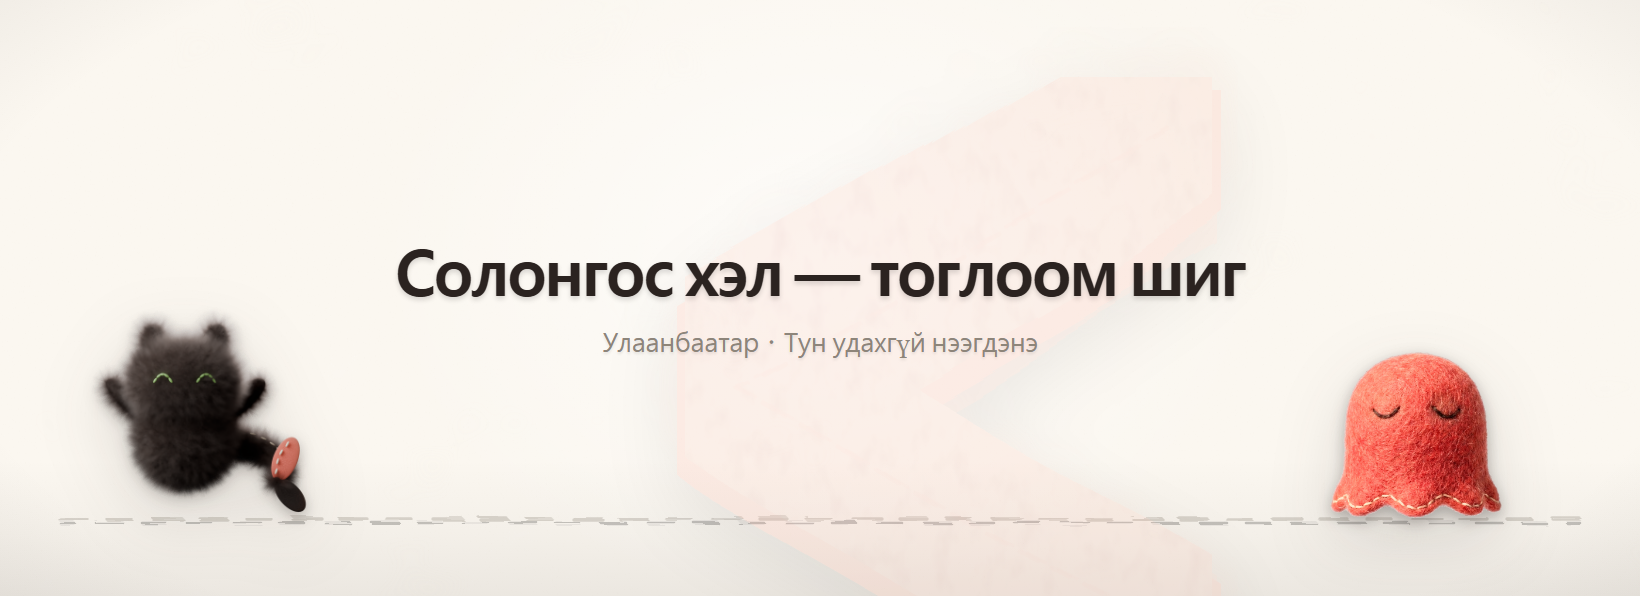
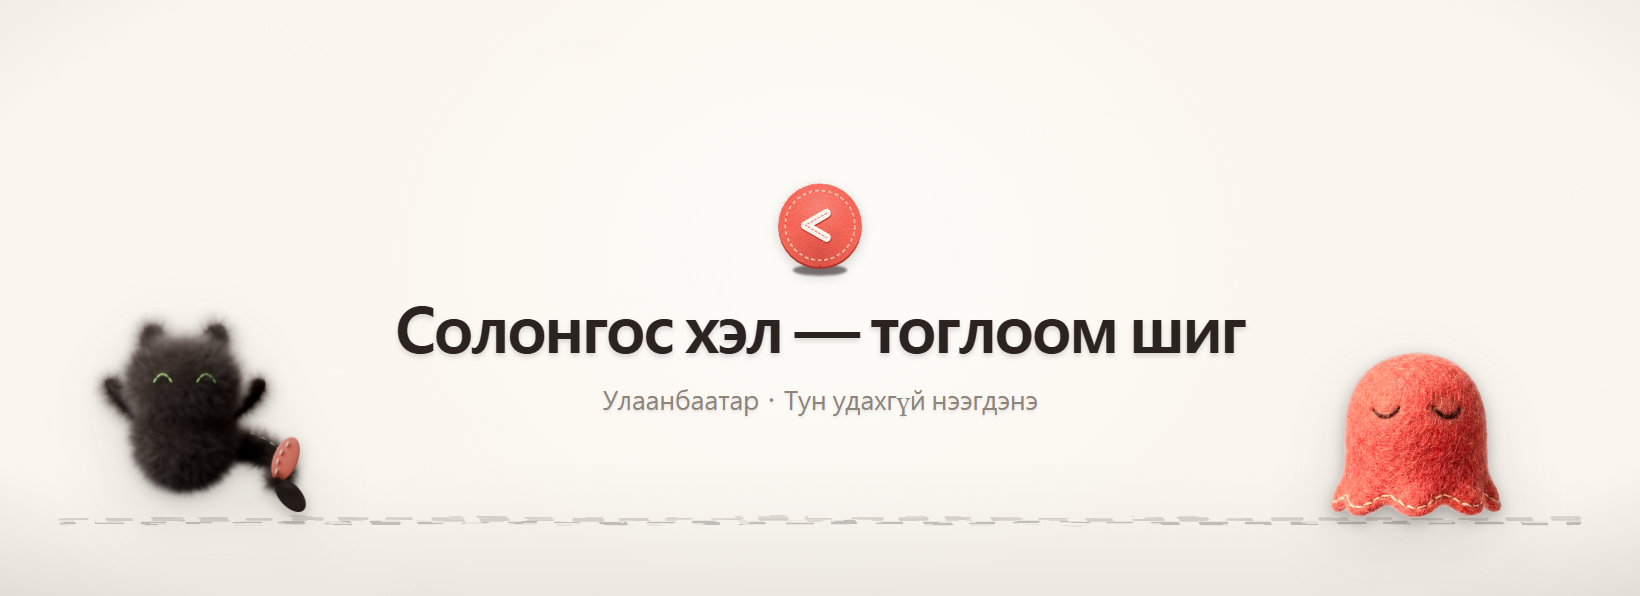
커버에 도장을 세우고 큰 꺾쇠를 걷었다 — 균형은 «더하기»가 아니라 «덜기»였다 (09-02)
유호 「< 균형이 안 맞는것같은데? 가운데 윗부분이나 아래쪽에 syn< 스티치한
버전 넣으면 좋을것같은데」.

① 도장을 문안 위 중앙에 세웠다 — 로고정본의 셋째 부품(펠트 원 + 쿠션 볼록
   + 실땀 링 + 접지). 기호 «<» 는 브랜드킷 §3 에서 「이미 안에 들어온 자리」의
   신호이고 도장이 그 대표 자리다. 워드마크 synk 를 안 쓴 까닭은 페이스북이
   커버 아래에 페이지 이름을 이미 크게 띄우기 때문이다 — 이름은 한 번이면 된다.

② 🔑 큰 꺾쇠 워터마크를 껐다. 1.7배를 옆으로 밀어도, 2.3배로 키워 중앙에 둬도
   균형이 안 잡혔다 — 커버는 배너보다 «낮고 넓어» 큰 꺾쇠가 천의 무늬가 되기
   전에 화면을 먹는 덩어리가 된다. 브랜드 신호는 도장 안의 꺾쇠가 이미 진다.
   같은 기호를 두 번 말할 까닭이 없다. 천이 비니 도장·문안·가이드 셋이 선명해졌다.

Session-Id: local_952145a8-6e62-4dbc-a954-4a346559cbce

Changed region(s): [[0.2177, 0.302, 0.7774, 0.604], [0.3732, 0.6644, 0.653, 0.6946]]

diff --git a/tools/배너굽기.js b/tools/배너굽기.js
@@ -27,7 +27,7 @@
 const fs = require('fs');
 const path = require('path');
 const { spawnSync } = require('child_process');
-const { 색, 기호선, 워드마크 } = require('./lib/로고정본.js');
+const { 색, 기호선, 워드마크, 도장 } = require('./lib/로고정본.js');
 const 마스코트자산 = require('./lib/마스코트자산.js');
 
 const ROOT = path.resolve(__dirname, '..');
@@ -350,7 +350,12 @@ const 안들 = {
     로고: () => 워드마크({ 판: '라이트', 표현: '펠트', 색갈래: '코랄' }),
     로고없이: true,
     천: { 보풀: '#FFFFFF', 그늘: 색['Oat'], 어둡나: false },
-    워터마크: true,
+    /* 🔴 큰 꺾쇠 워터마크를 **껐다**(09-02 · 유호 「< 균형이 안 맞는것같은데?」).
+     *   1.7배를 옆으로 밀어도, 2.3배로 키워 중앙에 둬도 균형이 안 잡혔다 — 커버는 배너보다
+     *   **낮고 넓어서** 큰 꺾쇠가 «천의 무늬»가 되기 전에 «화면을 먹는 덩어리»가 된다.
+     *   ⇒ 덜어냈다. 브랜드 신호는 **도장 안의 꺾쇠**가 이미 진다 — 같은 기호를 두 번 말할
+     *   까닭이 없다. 천이 비면 도장·문안·가이드 셋이 비로소 선명해진다. */
+    워터마크: false,
     워터실: 실.여린코랄,
     /* 🔴 ⑤의 0.22 를 그대로 쓰다가 **너무 진했다**(09-02 눈검증). 까닭은 알파가 아니라 «면적»이다 —
      * 꺾쇠를 1.7배로 키우니 같은 알파가 훨씬 세게 읽힌다. 톤온톤의 문법은 «멀리서 무늬·가까이서 조각»인데
@@ -379,10 +384,19 @@ const 안들 = {
      *      «스티커»고, 잘려 나가면 «천에 짜인 무늬»가 된다. 문안과 겹치던 모서리도 이때 빠진다. */
     빛: { 키형: '44% 96% at 50% 43%', 비형: '102% 130% at 50% 50%', 키: 0.62, 비: 0.21 },
     그림자: 'drop-shadow(0 5px 7px rgba(43,35,32,0.30)) drop-shadow(0 22px 34px rgba(43,35,32,0.14))',
-    워터배: 1.7,
-    워터x: '57%',
-    워터y: '64%',
+    /* 🔴 1.7배를 오른쪽 아래(57%·64%)로 밀었더니 **균형이 깨졌다**(유호 09-02 「< 균형이 안
+     * 맞는것같은데?」). 한쪽으로 쏠린 꺾쇠는 «무늬»가 아니라 «흘러내린 조각»으로 읽힌다.
+     * ⇒ 중앙으로 되돌리고 2.3배로 더 키운다 — 화면보다 커져 사방이 잘리면 위치가 사라지고
+     *   비로소 «천에 짜인 무늬»가 된다. 문안과 겹치던 모서리 문제도 이때 함께 풀린다
+     *   (겹치는 것이 아니라 «전면이 무늬»가 되므로). */
+    워터배: 2.3,
     바닥띠: true,
+    /* 도장 = 로고정본의 셋째 부품(펠트 원 + 쿠션 볼록 + **실땀 링** + 접지).
+     * 유호 지시 09-02 「가운데 윗부분에 syn< 스티치한 버전」 — 기호 «<» 는 브랜드킷 §3 에서
+     * 「이미 안에 들어온 자리」의 신호이고 도장이 그 대표 자리다. 워드마크 synk 를 안 쓰는 까닭은
+     * 페이스북이 커버 아래에 페이지 이름을 이미 크게 띄우기 때문이다 — 이름은 한 번이면 된다. */
+    도장: true,
+    도장크기: 150,
     큰크기: 100,
     작은크기: 42,
     큰줄: 'Солонгос хэл — тоглоом шиг',
@@ -517,6 +531,8 @@ function 지면(안, 안내선) {
   /* 로고·글자가 천 위에 «앉는다» — 광원이 위(42%)니 그림자는 전부 아래로.
    * 글자의 이중 그림자 = 자수의 깊이: 아래로 부드러운 접촉 + 윗모서리에 실낱 하이라이트.
    * 폰트는 안 건드린다(킷 3규칙) — 이것은 활자가 아니라 «빛»의 층이다. */
+  .도장{display:grid;place-items:center;filter:drop-shadow(0 ${재기(6)}px ${재기(10)}px rgba(43,35,32,0.20));}
+  .도장 svg{display:block;}
   .로고{width:${재기(190)}px;filter:drop-shadow(0 ${재기(7)}px ${재기(13)}px rgba(0,0,0,${어둡 ? '0.55' : '0.18'}));}
   .로고 svg{width:100%;height:auto;display:block;}
   .큰{font-size:${재기(a.큰크기 || 80)}px;font-weight:800;letter-spacing:-0.035em;line-height:1.14;color:${a.글자};margin:0;
@@ -532,7 +548,7 @@ function 지면(안, 안내선) {
   <!-- 이음(솔기)이 워터(아플리케)보다 먼저다 — 실물이라면 조각을 솔기 «위에» 꿰맨다. -->
   ${천}<div class="결"></div>${바닥}${이음}${워터}${몽글}${까몽}${선}
   <div class="속">
-    ${a.로고없이 ? '' : `<div class="로고">${a.로고()}</div>`}
+    ${a.도장 ? `<div class="도장">${도장({ px: 재기(a.도장크기 || 150) })}</div>` : (a.로고없이 ? '' : `<div class="로고">${a.로고()}</div>`)}
     <p class="큰">${큰}</p>
     <p class="작은">${작은}</p>
   </div>
